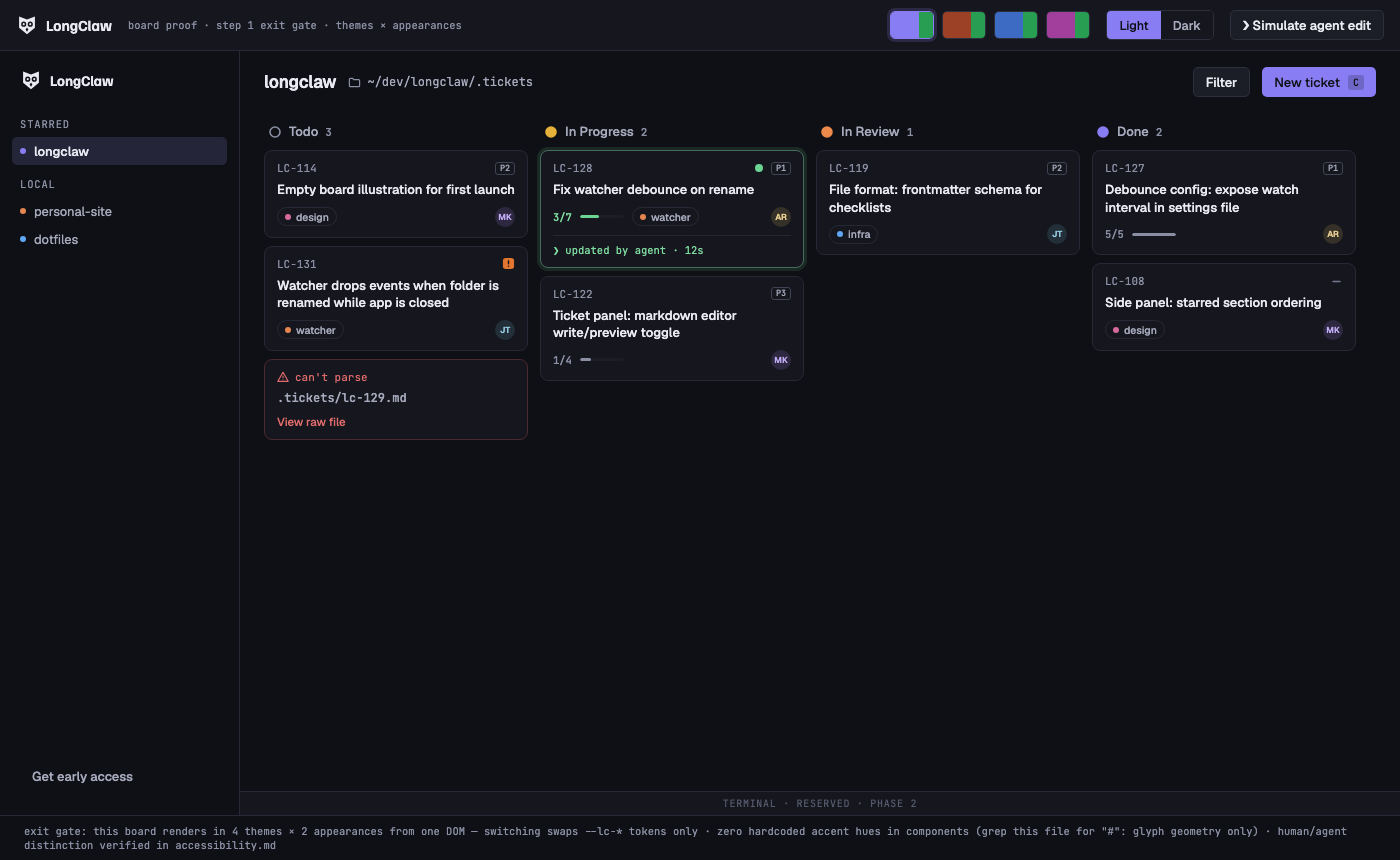
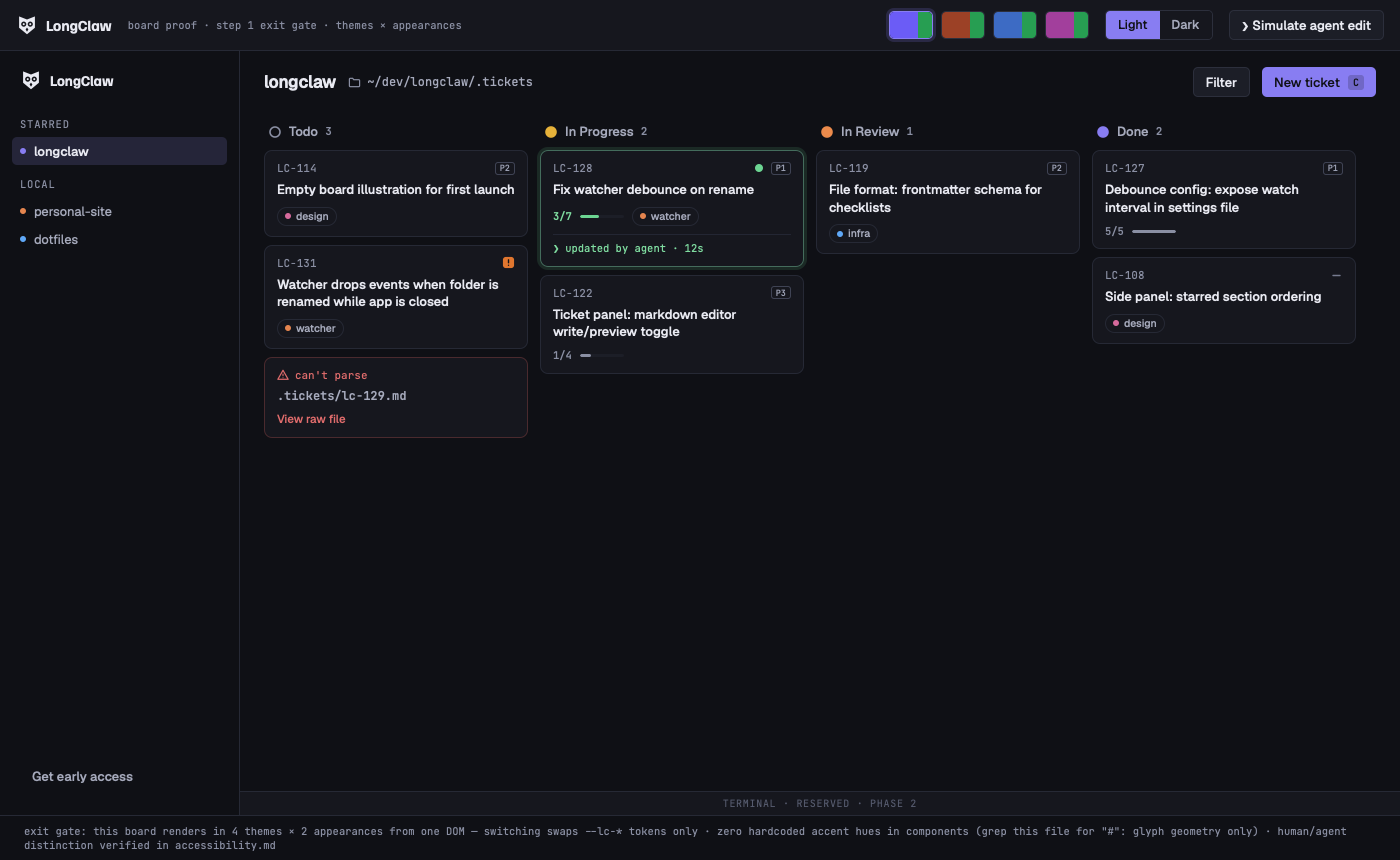
Step 13: proof render pipeline and regenerated renders (V0-41)

diff --git a/docs/design/foundations/README.md b/docs/design/foundations/README.md
@@ -15,6 +15,7 @@ iteration). Everything here is the deliverable set for MVP plan Step 1.
 | `decisions.md` | Decision log — every **[proposed]** brief item resolved (D1–D15) |
 | `accessibility.md` | Generated WCAG AA + color-vision-deficiency results (204 checks) |
 | `scripts/a11y-check.mjs` | The checker (`node scripts/a11y-check.mjs --write`); exits non-zero on any failure |
+| `scripts/render.mjs` | The render pipeline (`node scripts/render.mjs`); regenerates `proof/renders/` from the two proof pages |
 | `assets/owl-mark.svg` | Original geometric owl mark, variant A "talon" |
 | `assets/glyphs.svg` | Status / priority / checkbox / agent / folder / warn glyph masters |
 | `proof/board.html` | **Board proof** — open in a browser; switch 4 themes × 2 appearances live |
@@ -56,24 +57,24 @@ swap and nothing else.
 project has exactly one human and no assignee concept, and this pass
 closed the remaining gap for these two Step 1 proof pages (the markdown
 specs were already brought into line). The committed screenshots in
-`proof/renders/` are the exit-gate evidence above and predate this
-revision — they still show assignee avatars, the assignee field, and the
-assignee control in the ticket panel. The render pipeline that produced
-them is not committed, so they have not been regenerated and remain
-historical evidence of the pre-ADR-0001 anatomy, not the current HTML.
-**Read them as history, not as the spec.** Committing that pipeline and
-re-rendering the set is
-[V0-41](../../backlog/v0-backlog.md) in Wave 3; until it lands, the exit-gate
-row above is evidence about the token system and not about the card anatomy,
-and V0-19's screen clause is open.
+`proof/renders/` predated that revision and still showed the assignee
+anatomy, because the pipeline that produced them was never committed.
+**Resolved 2026-08-01 (V0-41):** `scripts/render.mjs` is that pipeline,
+committed, and `proof/renders/` is regenerated from the current HTML — no
+assignee avatar, field, or control appears anywhere in the set, which
+closes V0-19's screen clause. The renders are current evidence again, not
+history.
 
 ## Regenerating
 
 ```sh
 node tokens/build.mjs               # JSON → CSS
 node scripts/a11y-check.mjs --write # verify + regenerate accessibility.md
+node scripts/render.mjs             # proof pages → proof/renders/
 ```
 
-Any token change: edit `tokens/design-tokens.json`, run both commands, and
-re-open `proof/board.html`. If a screen breaks under a preset, fix the
-tokens, never the screen.
+Any token change: edit `tokens/design-tokens.json`, run all three commands,
+and re-open `proof/board.html`. If a screen breaks under a preset, fix the
+tokens, never the screen. The render script drives WebKit through
+`playwright-core`, resolved from `apps/desktop`; a first run may need
+`npx playwright-core install webkit` there.

diff --git a/docs/plans/active/34-proof-render-pipeline.md b/docs/plans/active/34-proof-render-pipeline.md
@@ -1,0 +1,64 @@
+---
+title: "Commit the screenshot pipeline and regenerate the Step-1 proof renders"
+product: LongClaw
+status: active
+backlog_id: V0-41
+order: 34
+owner_area: Design
+release_blocking: false
+written: 2026-08-01
+applies_to: "step-13-themes-appearance @ 57bce26"
+depends_on: "nothing — the corrected HTML has been waiting since plan 11"
+---
+
+# Commit the screenshot pipeline and regenerate the Step-1 proof renders
+
+> "One uncommitted tool leaves a stale record uncorrectable and a check
+> unbuildable." — `docs/backlog/v0-backlog.md:165`
+
+## Must-pass
+
+> The pipeline is in the repo, runs from `foundations/README.md` § Regenerating,
+> and reproduces the render set from the current HTML; the regenerated renders
+> show no assignee avatar, no assignee field and no assignee control (ADR 0001),
+> which closes V0-19's screen clause.
+
+## What exists today
+
+- `docs/design/foundations/proof/` holds the two corrected HTML pages
+  (`board.html`, `components-library.html`, revised under plan 11) and
+  `renders/` with ten stale PNGs that still show the pre-ADR-0001 assignee
+  anatomy: `board-{indigo,clay,slate,plum}-{light,dark}.png`,
+  `library-clay-dark.png`, `library-indigo-light.png`.
+- The script that made them was never committed
+  (`foundations/README.md:53-63`).
+- A committed precedent exists at `docs/design/prototype/scripts/render.mjs`,
+  but it depends on full `playwright` + a local Chrome — neither is a repo
+  dependency. `apps/desktop` already carries `playwright-core` and its perf
+  harness launches WebKit, which CI already knows how to install.
+
+## What to change
+
+1. **`docs/design/foundations/scripts/render.mjs`** — renders the ten PNGs
+   from the two HTML files at 1440×900: the board across all four presets ×
+   two appearances (set via the root `data-theme`/`data-appearance`
+   attributes, matching the token contract), the library in its two
+   spot-checks. It resolves `playwright-core` out of `apps/desktop` via
+   `createRequire`, so the docs tree gains no package.json.
+2. Regenerate `proof/renders/` and verify no assignee appears (the HTML is
+   already clean — `rg -i 'assign' proof/*.html` — so the renders follow).
+3. Update `foundations/README.md`: § Regenerating gains the render command;
+   the 2026-07-31 revision note and the exit-gate rows stop describing the
+   renders as stale history.
+4. Update the V0-19 row in the backlog: its screen clause closes.
+
+## Must-pass checks
+
+- `node scripts/render.mjs` from `docs/design/foundations` reproduces all ten
+  files, deterministically named.
+- `rg -i "assign"` over the proof HTML stays empty; a human look at the
+  regenerated board and library renders confirms no avatar/field/control.
+
+## Outcome
+
+_To be written on completion._
